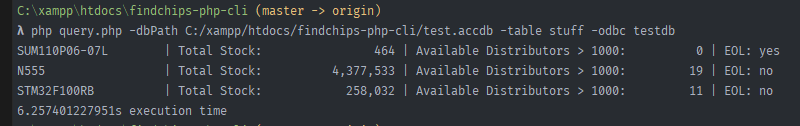
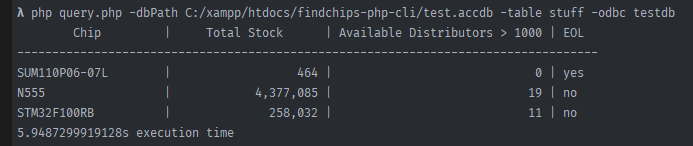
better output visualization

diff --git a/query.php b/query.php
@@ -42,6 +42,18 @@ require_once 'Parser.php';
 $database = new Database($sanitizedArgs['odbc'], $sanitizedArgs['table']);
 $parser   = new Parser();
 
+$columns = [
+    str_pad('Chip', 20, ' ', STR_PAD_BOTH),
+    str_pad('Total Stock', 20, ' ', STR_PAD_BOTH),
+    'Available Distributors > ' . Parser::$STOCK_SIZE_THRESHOLD,
+    'EOL',
+];
+
+$stringThresholdLength = strlen((string) Parser::$STOCK_SIZE_THRESHOLD);
+
+$head = implode(' | ', $columns) . "\r\n";
+echo $head . str_pad('', strlen($head), '-') . "\r\n";
+
 foreach($database->getNonEOLChips() as $row) {
     $html                        = $parser->get($row['partname']);
     $amountDistributorsWithStock = $parser->parse($html);
@@ -51,14 +63,12 @@ foreach($database->getNonEOLChips() as $row) {
         $setToEOL = $database->setToEOL((int) $row['id']);
     }
 
-    $result = [
-        str_pad($row['partname'], 20),
-        'Total Stock:' . str_pad(number_format($parser->getTotalStock()), 19, ' ', STR_PAD_LEFT),
-        'Available Distributors > ' . Parser::$STOCK_SIZE_THRESHOLD . ': ' . str_pad(number_format($amountDistributorsWithStock), 10, ' ', STR_PAD_LEFT),
-        'EOL: ' . ($setToEOL ? 'yes' : 'no'),
-    ];
-
-    echo implode(' | ', $result) . "\r\n";
+    echo implode(' | ', [
+            str_pad($row['partname'], 20),
+            str_pad(number_format($parser->getTotalStock()), 20, ' ', STR_PAD_LEFT),
+            str_pad(number_format($amountDistributorsWithStock), 25 + $stringThresholdLength, ' ', STR_PAD_LEFT),
+            $setToEOL ? 'yes' : 'no',
+        ]) . "\r\n";
 }
 
 $database->logExecutionTime();
